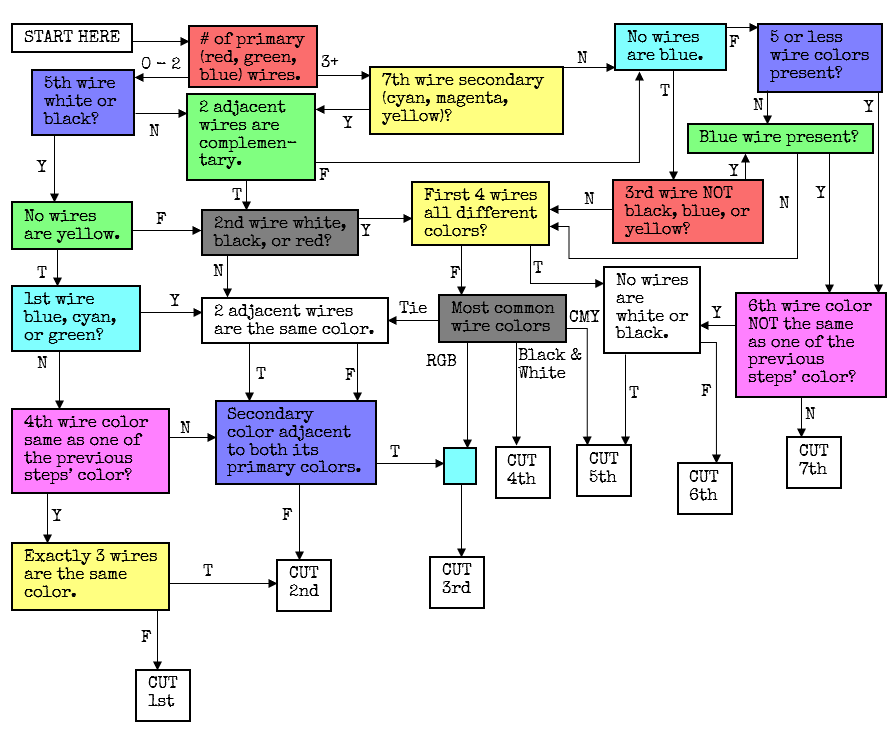
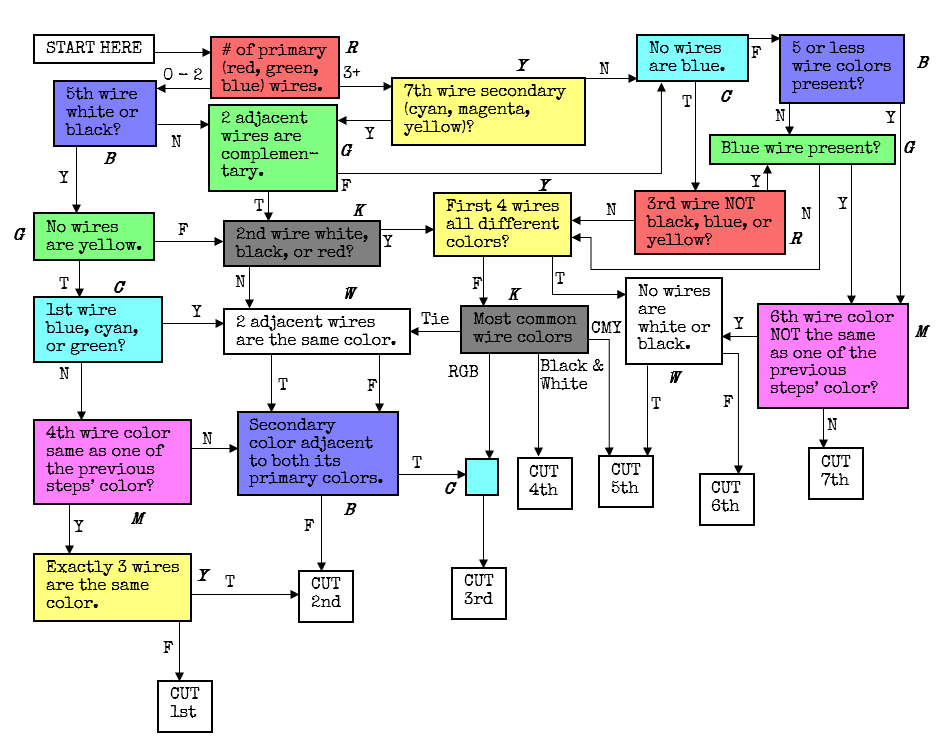
thinking wires update

Changed region(s): [[0.0, 0.03, 1.0, 0.9891]]

diff --git a/HTML/Thinking Wires.html b/HTML/Thinking Wires.html
@@ -64,7 +64,7 @@
                         </ul>
                     </ul>
                     <p>While there exists other color systems such as RYB subtractive color system and CMY subtractive color system, this module never uses either of those systems. <strong>Do not</strong> make any assumption of the color system upon disarming the module.</p>
-                    <p>This module has colorblind support. When the colorblind mode is activated, the module will display a single capitalized letter to the right of each wire representing its color. The first letter of each color is used, unless the color is black where the letter K is used instead.</p>
+                    <p>This module has colorblind support. When the colorblind mode is activated, the module will display a single capitalized letter to the right of each wire representing its color. The first letter of each color is used, unless the color is black where the letter K is used instead. Refer these letters to the embolden and italicized letter next to each box as each letter indicates the color of each box adjacent to it.</p>
                 </div>
                 <div class="page-footer relative-footer">Page 2 of 2</div>
             </div>
